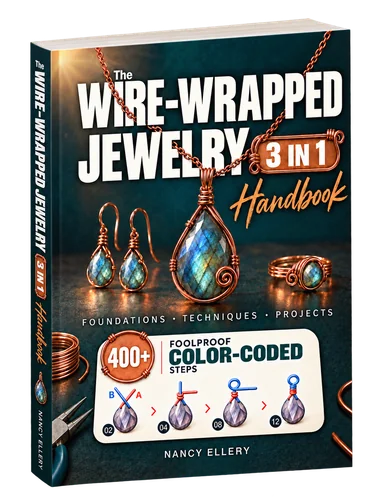
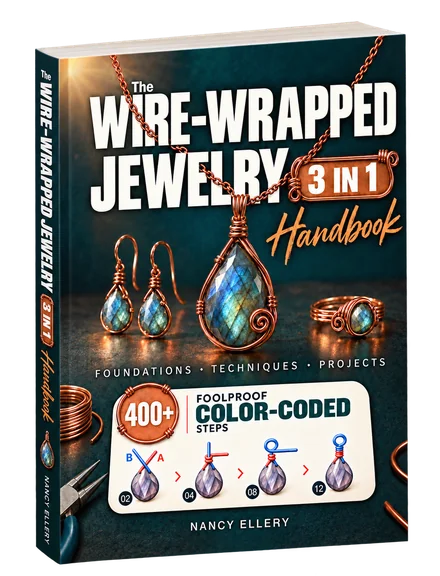
Landing: The Wire-Wrapped Jewelry Handbook — aggiornamento

diff --git a/thankyou/index.html b/thankyou/index.html
@@ -99,6 +99,16 @@
       transform: perspective(900px) rotateY(0deg) scale(1.03);
     }
 
+    /* il mockup 3D ha già dorso e prospettiva: niente rotazione né striscia del dorso, e l'ombra segue la sagoma */
+    .hero-book:has(.book-mockup) { width: 220px; }
+    .book-wrap:has(.book-mockup)::before { display: none; }
+    .book-mockup, .book-mockup:hover {
+      border-radius: 0;
+      box-shadow: none;
+      transform: none;
+      filter: drop-shadow(0 14px 18px rgba(0,0,0,0.35));
+    }
+
     .book-wrap::before {
       content: "";
       position: absolute;
@@ -397,6 +407,7 @@
       }
 
       .hero-book { width: 150px; }
+      .hero-book:has(.book-mockup) { width: 170px; }
       .book-cover, .book-wrap::before { transform: none; }
 
       .main-content {
@@ -1103,7 +1114,7 @@
     <div class="hero-inner">
       <div class="hero-book">
         <div class="book-wrap">
-          <img src="cover.wirewrapped.jpg" alt="The Wire-Wrapped Jewelry Handbook – Book Cover" class="book-cover" />
+          <img src="mockup.wirewrapped.webp" alt="The Wire-Wrapped Jewelry Handbook – Book Cover" class="book-cover book-mockup" />
         </div>
       </div>
       <div class="hero-text">
